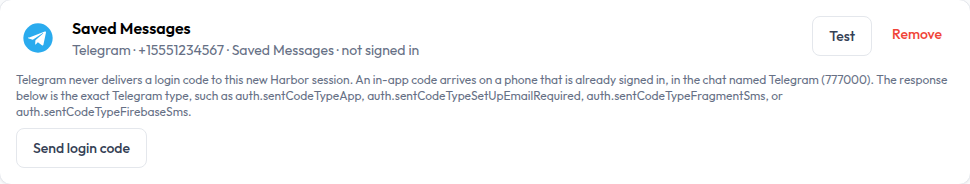
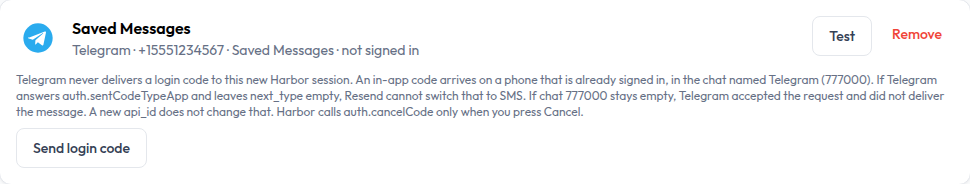
Say when Telegram offers no SMS fallback for an app code.
auth.sentCodeTypeApp with an empty next_type cannot be resent as SMS, and an empty 777000 chat means Telegram accepted the request without delivering the message. Harbor still calls auth.cancelCode only from Cancel.

Changed region(s): [[0.0, 0.4891, 0.9897, 0.6522], [0.8969, 0.4076, 0.9897, 0.462]]

diff --git a/apps/panel/src/pages/admin/DestinationsPage.tsx b/apps/panel/src/pages/admin/DestinationsPage.tsx
@@ -324,7 +324,7 @@ function TelegramLogin({
   };
   return (
     <>
-      <p className="text-xs text-gray-500">Telegram never delivers a login code to this new Harbor session. An in-app code arrives on a phone that is already signed in, in the chat named Telegram (777000). The response below is the exact Telegram type, such as auth.sentCodeTypeApp, auth.sentCodeTypeSetUpEmailRequired, auth.sentCodeTypeFragmentSms, or auth.sentCodeTypeFirebaseSms.</p>
+      <p className="text-xs text-gray-500">Telegram never delivers a login code to this new Harbor session. An in-app code arrives on a phone that is already signed in, in the chat named Telegram (777000). If Telegram answers auth.sentCodeTypeApp and leaves next_type empty, Resend cannot switch that to SMS. If chat 777000 stays empty, Telegram accepted the request and did not deliver the message. A new api_id does not change that. Harbor calls auth.cancelCode only when you press Cancel.</p>
       {localError && <p className="text-sm text-error-500">{localError}</p>}
       {!active && (
         <button
@@ -349,6 +349,9 @@ function TelegramLogin({
             </p>
           )}
           <p className="text-sm text-gray-700 dark:text-gray-200">{delivery.message}</p>
+          {!delivery.next_type && delivery.type !== "setup_email" && delivery.type !== "payment" && delivery.type !== "already" && (
+            <p className="text-sm text-gray-700 dark:text-gray-200">Resend is unavailable because Telegram did not return next_type.</p>
+          )}
           {delivery.url && <a className="text-sm text-brand-600 underline" href={delivery.url} target="_blank" rel="noreferrer">{delivery.url}</a>}
           {phase === "email" && (
             <form className="flex flex-col gap-2 sm:flex-row" onSubmit={(event) => {

diff --git a/apps/server/internal/providers/catalog.go b/apps/server/internal/providers/catalog.go
@@ -237,7 +237,7 @@ var catalog = []Provider{
 		Steps: []string{
 			"Open https://my.telegram.org/apps, create an application, and copy the api_id and api_hash.",
 			"Enter the phone number of the account that should send the backups, then save the destination.",
-			"On Destinations, send a login code. The page shows Telegram's exact response, such as auth.sentCodeTypeApp (chat Telegram, 777000 on another signed-in phone), auth.sentCodeTypeSetUpEmailRequired, auth.sentCodeTypeFragmentSms, or auth.sentCodeTypeFirebaseSms. Resend switches to the next method. Cancel drops the code.",
+			"On Destinations, send a login code. The page shows Telegram's exact response, such as auth.sentCodeTypeApp (chat Telegram, 777000 on another signed-in phone), auth.sentCodeTypeSetUpEmailRequired, auth.sentCodeTypeFragmentSms, or auth.sentCodeTypeFirebaseSms. Resend appears only when Telegram sets next_type. If next_type is empty, the code cannot be switched to SMS. Cancel is the only call to auth.cancelCode.",
 			"Leave the target empty for Saved Messages, or use a @username, an invite link, or a numeric id. A forum topic id is optional.",
 			"A regular account sends one document up to 2 GB. A Premium account sends up to 4 GB. Larger backups are split into numbered parts you join with cat.",
 			"This signs in as you, not as a bot. Log out on Destinations to revoke the session. The api hash and session stay encrypted.",

diff --git a/apps/server/internal/telegram/sentcode.go b/apps/server/internal/telegram/sentcode.go
@@ -187,7 +187,10 @@ func sentMessage(status CodeStatus) string {
 	var text string
 	switch status.Type {
 	case "app":
-		text = "Telegram sent the code to your other logged-in devices, in the service chat named Telegram (777000). This Harbor session does not receive it. Open Telegram on a phone that is already signed in to this number."
+		text = "Telegram returned auth.sentCodeTypeApp. The code is a service message in the chat named Telegram (777000) on devices that are already signed in. This Harbor session does not receive it."
+		if status.NextType == "" {
+			text += " next_type is empty, so Resend cannot switch this to SMS. If chat 777000 stays empty, Telegram accepted the request and did not deliver the message. A new api_id does not change that. Harbor does not call auth.cancelCode unless you press Cancel."
+		}
 	case "sms":
 		text = "Telegram sent the code by SMS."
 	case "call":
@@ -231,6 +234,8 @@ func sentMessage(status CodeStatus) string {
 			wait = " If it does not arrive, resend it"
 		}
 		text += wait + " by " + strings.ReplaceAll(status.NextType, "_", " ") + "."
+	} else if status.Type != "app" && status.Type != "setup_email" && status.Type != "already" && status.Type != "payment" {
+		text += " Telegram did not set next_type, so Resend cannot switch the delivery to SMS."
 	}
 	if status.TypeName != "" {
 		text = status.TypeName + ". " + text

diff --git a/apps/server/internal/telegram/gotd.go b/apps/server/internal/telegram/gotd.go
@@ -270,12 +270,18 @@ func sendCodeOnDC(ctx context.Context, client *telegram.Client, phone string) (t
 	}
 	sent, err := send()
 	if dc, ok := migrateDC(err); ok {
+		// gotd normally does this inside the call: PHONE_MIGRATE zeroes the
+		// auth key, opens a new key on the destination datacenter, and repeats
+		// auth.sendCode there. This branch is the same step when that error
+		// is still visible. It is not auth.exportAuthorization.
 		log.Printf("telegram auth.sendCode migrate to dc=%d", dc)
 		if mErr := client.MigrateTo(ctx, dc); mErr != nil {
 			return nil, err
 		}
 		sent, err = send()
-		log.Printf("telegram auth.sendCode after migrate dc=%d", client.Config().ThisDC)
+	}
+	if err == nil {
+		log.Printf("telegram auth.sendCode finished dc=%d", client.Config().ThisDC)
 	}
 	return sent, err
 }

diff --git a/apps/server/internal/telegram/sentcode_test.go b/apps/server/internal/telegram/sentcode_test.go
@@ -48,6 +48,10 @@ func TestDescribeSentCode(t *testing.T) {
 	if describeSentCode(&tg.AuthSentCode{Type: &tg.AuthSentCodeTypeMissedCall{Prefix: "12", Length: 4}}).Type != "missed_call" {
 		t.Fatal("missed")
 	}
+	appOnly := describeSentCode(&tg.AuthSentCode{Type: &tg.AuthSentCodeTypeApp{Length: 5}, PhoneCodeHash: "hash"})
+	if appOnly.NextType != "" || !strings.Contains(appOnly.Message, "next_type is empty") || !strings.Contains(appOnly.Message, "cannot switch this to SMS") || !strings.Contains(appOnly.Message, "auth.cancelCode") {
+		t.Fatal(appOnly.Message)
+	}
 }
 
 func TestResendKeepsTheSession(t *testing.T) {

diff --git a/apps/server/internal/telegram/login_hold.go b/apps/server/internal/telegram/login_hold.go
@@ -16,7 +16,10 @@ const (
 	// authBudget stays under Cloudflare's 100 second proxy timeout.
 	authBudget = 45 * time.Second
 	// loginKeepAlive keeps the MTProto connection used for auth.sendCode open
-	// until the code or the cloud password is submitted.
+	// until the code or the cloud password is submitted. When it ends, Harbor
+	// closes that connection. It does not call auth.cancelCode. Telegram
+	// deletes a login code only when auth.cancelCode runs, which is the
+	// Cancel button.
 	loginKeepAlive = 3 * time.Minute
 )
 

diff --git a/README.md b/README.md
@@ -48,7 +48,7 @@ Harbor uploads with the MTProto API as your user account, the same way Telethon,
 1. Open [my.telegram.org/apps](https://my.telegram.org/apps) and create an application. Copy the api_id and api_hash. The api_id is a number. The api_hash is shown once in the form and then stored encrypted.
 2. In Harbor, open Destinations, choose Telegram, and enter the api_id, api_hash, and the phone number of the account that should send backups.
 3. Leave the target empty to use Saved Messages. Otherwise enter a public `@username`, an invite link, or the numeric id of a chat already on that account. A forum topic id is optional. An invite link joins the chat if you are not already in it.
-4. Save the destination, then choose Send login code. Harbor shows Telegram's exact `auth.sentCode` type (`auth.sentCodeTypeApp`, `auth.sentCodeTypeSms`, `auth.sentCodeTypeSetUpEmailRequired`, `auth.sentCodeTypeFragmentSms`, `auth.sentCodeTypeFirebaseSms`, and the rest), the datacenter, the next method, and how long to wait. An in-app code goes to other devices that are already signed in, in the chat named Telegram (777000). This new session does not receive it. `auth.sentCodeTypeSetUpEmailRequired` sends nothing until a login email is confirmed. If nothing arrives, Resend switches to the next method, often SMS. Cancel calls `auth.cancelCode`. If the account has a cloud password, enter that next. Log out on the same card to call `auth.logOut` and delete the saved session. Each new code starts a new auth key. Datacenter migration happens before that code is accepted, and the resend, the email check, and the sign-in stay on that same key.
+4. Save the destination, then choose Send login code. Harbor shows Telegram's exact `auth.sentCode` type (`auth.sentCodeTypeApp`, `auth.sentCodeTypeSms`, `auth.sentCodeTypeSetUpEmailRequired`, `auth.sentCodeTypeFragmentSms`, `auth.sentCodeTypeFirebaseSms`, and the rest), the datacenter, the next method, and how long to wait. An in-app code goes to other devices that are already signed in, in the chat named Telegram (777000). This new session does not receive it. If that response is `auth.sentCodeTypeApp` and `next_type` is empty, Telegram did not offer SMS, and Resend cannot switch the delivery. Official clients are the ones that can receive an SMS login code; third-party api_ids are told to use the in-app code, Fragment, email, or a QR login. Since January 2026, people using Telethon, Pyrogram, gotd, and TDLib have reported that `auth.sentCodeTypeApp` succeeds and the 777000 message never appears, with no RPC error. A new api_id does not change the type Telegram returns. Harbor does not call `auth.cancelCode` unless you press Cancel. Closing the login connection does not cancel the code. `auth.sentCodeTypeSetUpEmailRequired` sends nothing until a login email is confirmed. When `next_type` is set, Resend switches to that method. If the account has a cloud password, enter that next. Log out on the same card to call `auth.logOut` and delete the saved session. Each new code starts a new auth key. A datacenter move (`PHONE_MIGRATE`) creates a new auth key on the destination datacenter and repeats `auth.sendCode` there. The resend, the email check, and the sign-in stay on that same key.
 5. Choose that destination on a project. Each backup is one document. The caption includes the project, backup name, kind, size, timestamp, and the SHA-256 of the whole file.
 
 A regular account can send one document of up to 2 GB (4000 parts of 512 KB). A Premium account can send 4 GB (8000 parts). Harbor reads the Premium flag on the signed-in user. Anything larger is split into numbered files named `harbor-<name>-partNN-of-NN.bin`. Download those parts in order and join them:

diff --git a/CHANGELOG.md b/CHANGELOG.md
@@ -17,6 +17,7 @@ The format is based on [Keep a Changelog](https://keepachangelog.com/en/1.1.0/),
 ### Fixed
 
 - A successful Telegram `auth.sendCode` now shows the exact constructor (`auth.sentCodeTypeApp`, `auth.sentCodeTypeSetUpEmailRequired`, `auth.sentCodeTypeFragmentSms`, `auth.sentCodeTypeFirebaseSms`, and the others) plus the datacenter. Nothing is assumed to have reached the Telegram app. A new code starts a new auth key, datacenter migration happens before that code is accepted, and resend, email setup, and sign-in stay on that same key. A second click while a code is already being requested waits for that attempt instead of creating another auth key. Telegram rejecting the phone, the code, or the api_id is returned as a 4xx JSON error. The panel can resend with `auth.resendCode` and cancel with `auth.cancelCode`.
+- When `auth.sentCodeTypeApp` has no `next_type`, the panel says Resend cannot switch the code to SMS, and that an empty Telegram chat (777000) means Telegram accepted the request and did not deliver the service message. Harbor calls `auth.cancelCode` only from the Cancel button. The login connection closing does not cancel the code.
 - Requesting a Telegram login code stops after about 45 seconds, keeps that MTProto connection open until the code or cloud password is entered, and the panel shows Telegram's error instead of a proxy HTML page.
 
 ### Changed
